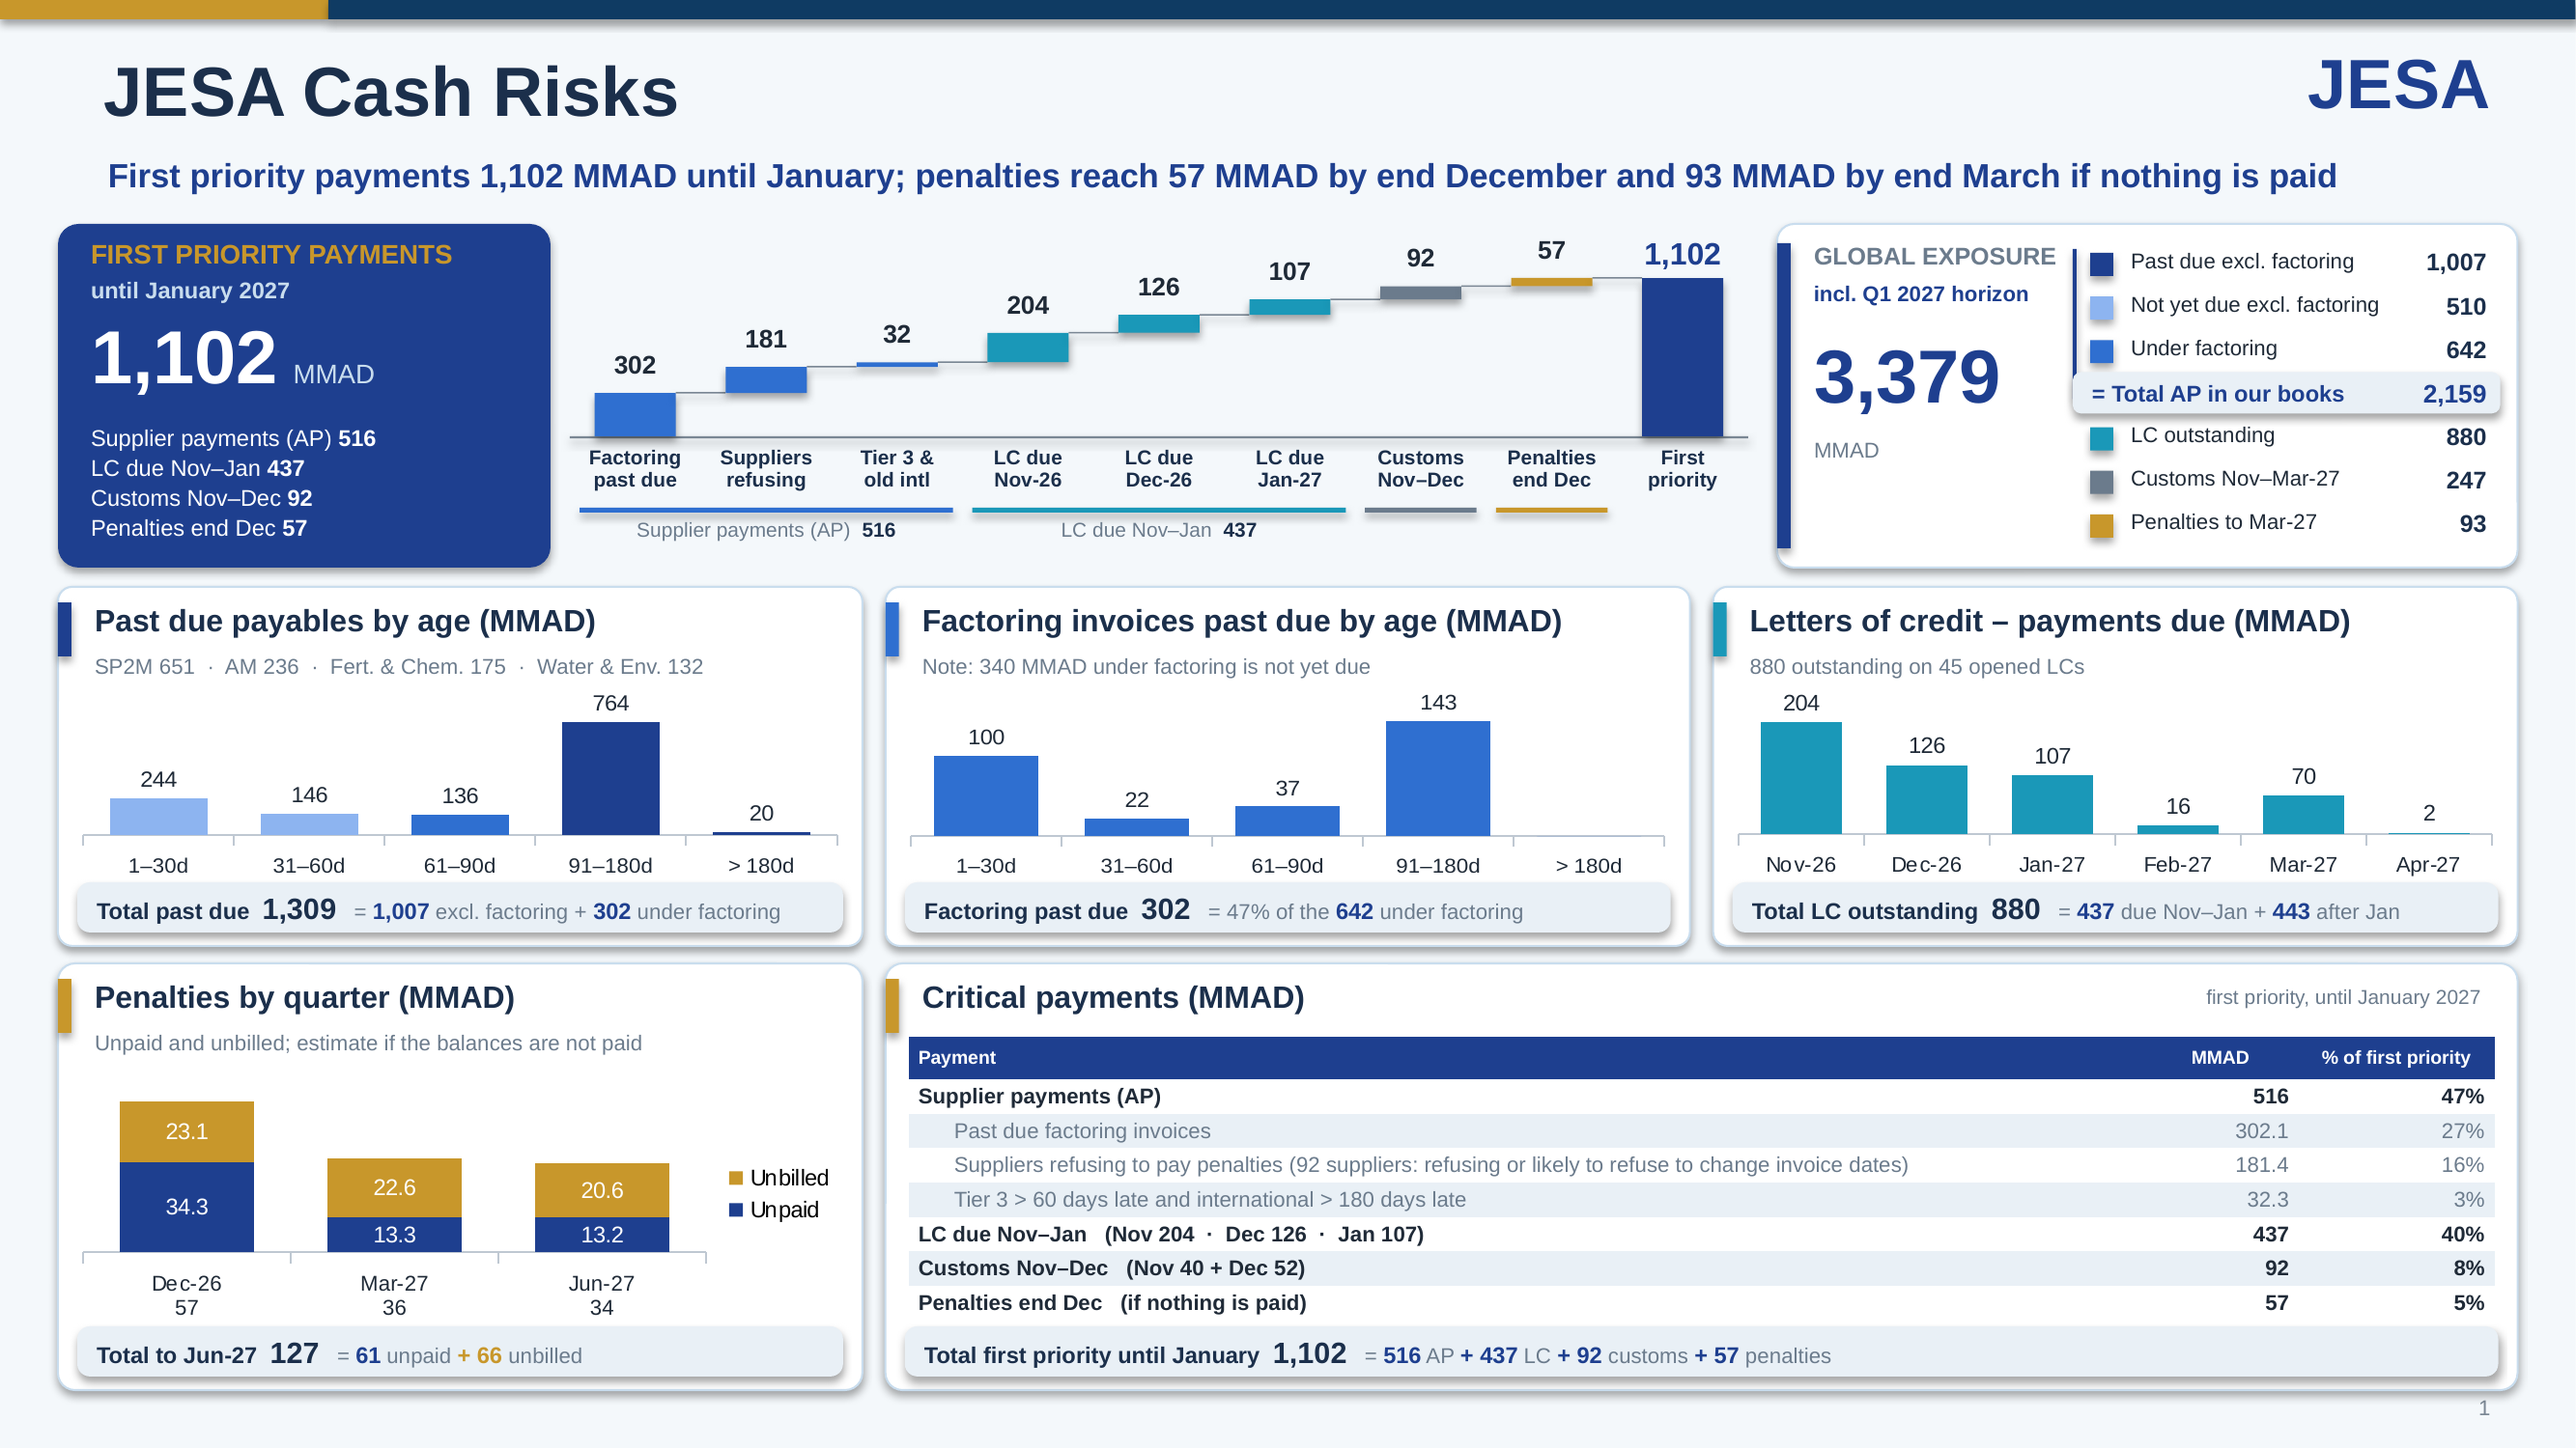
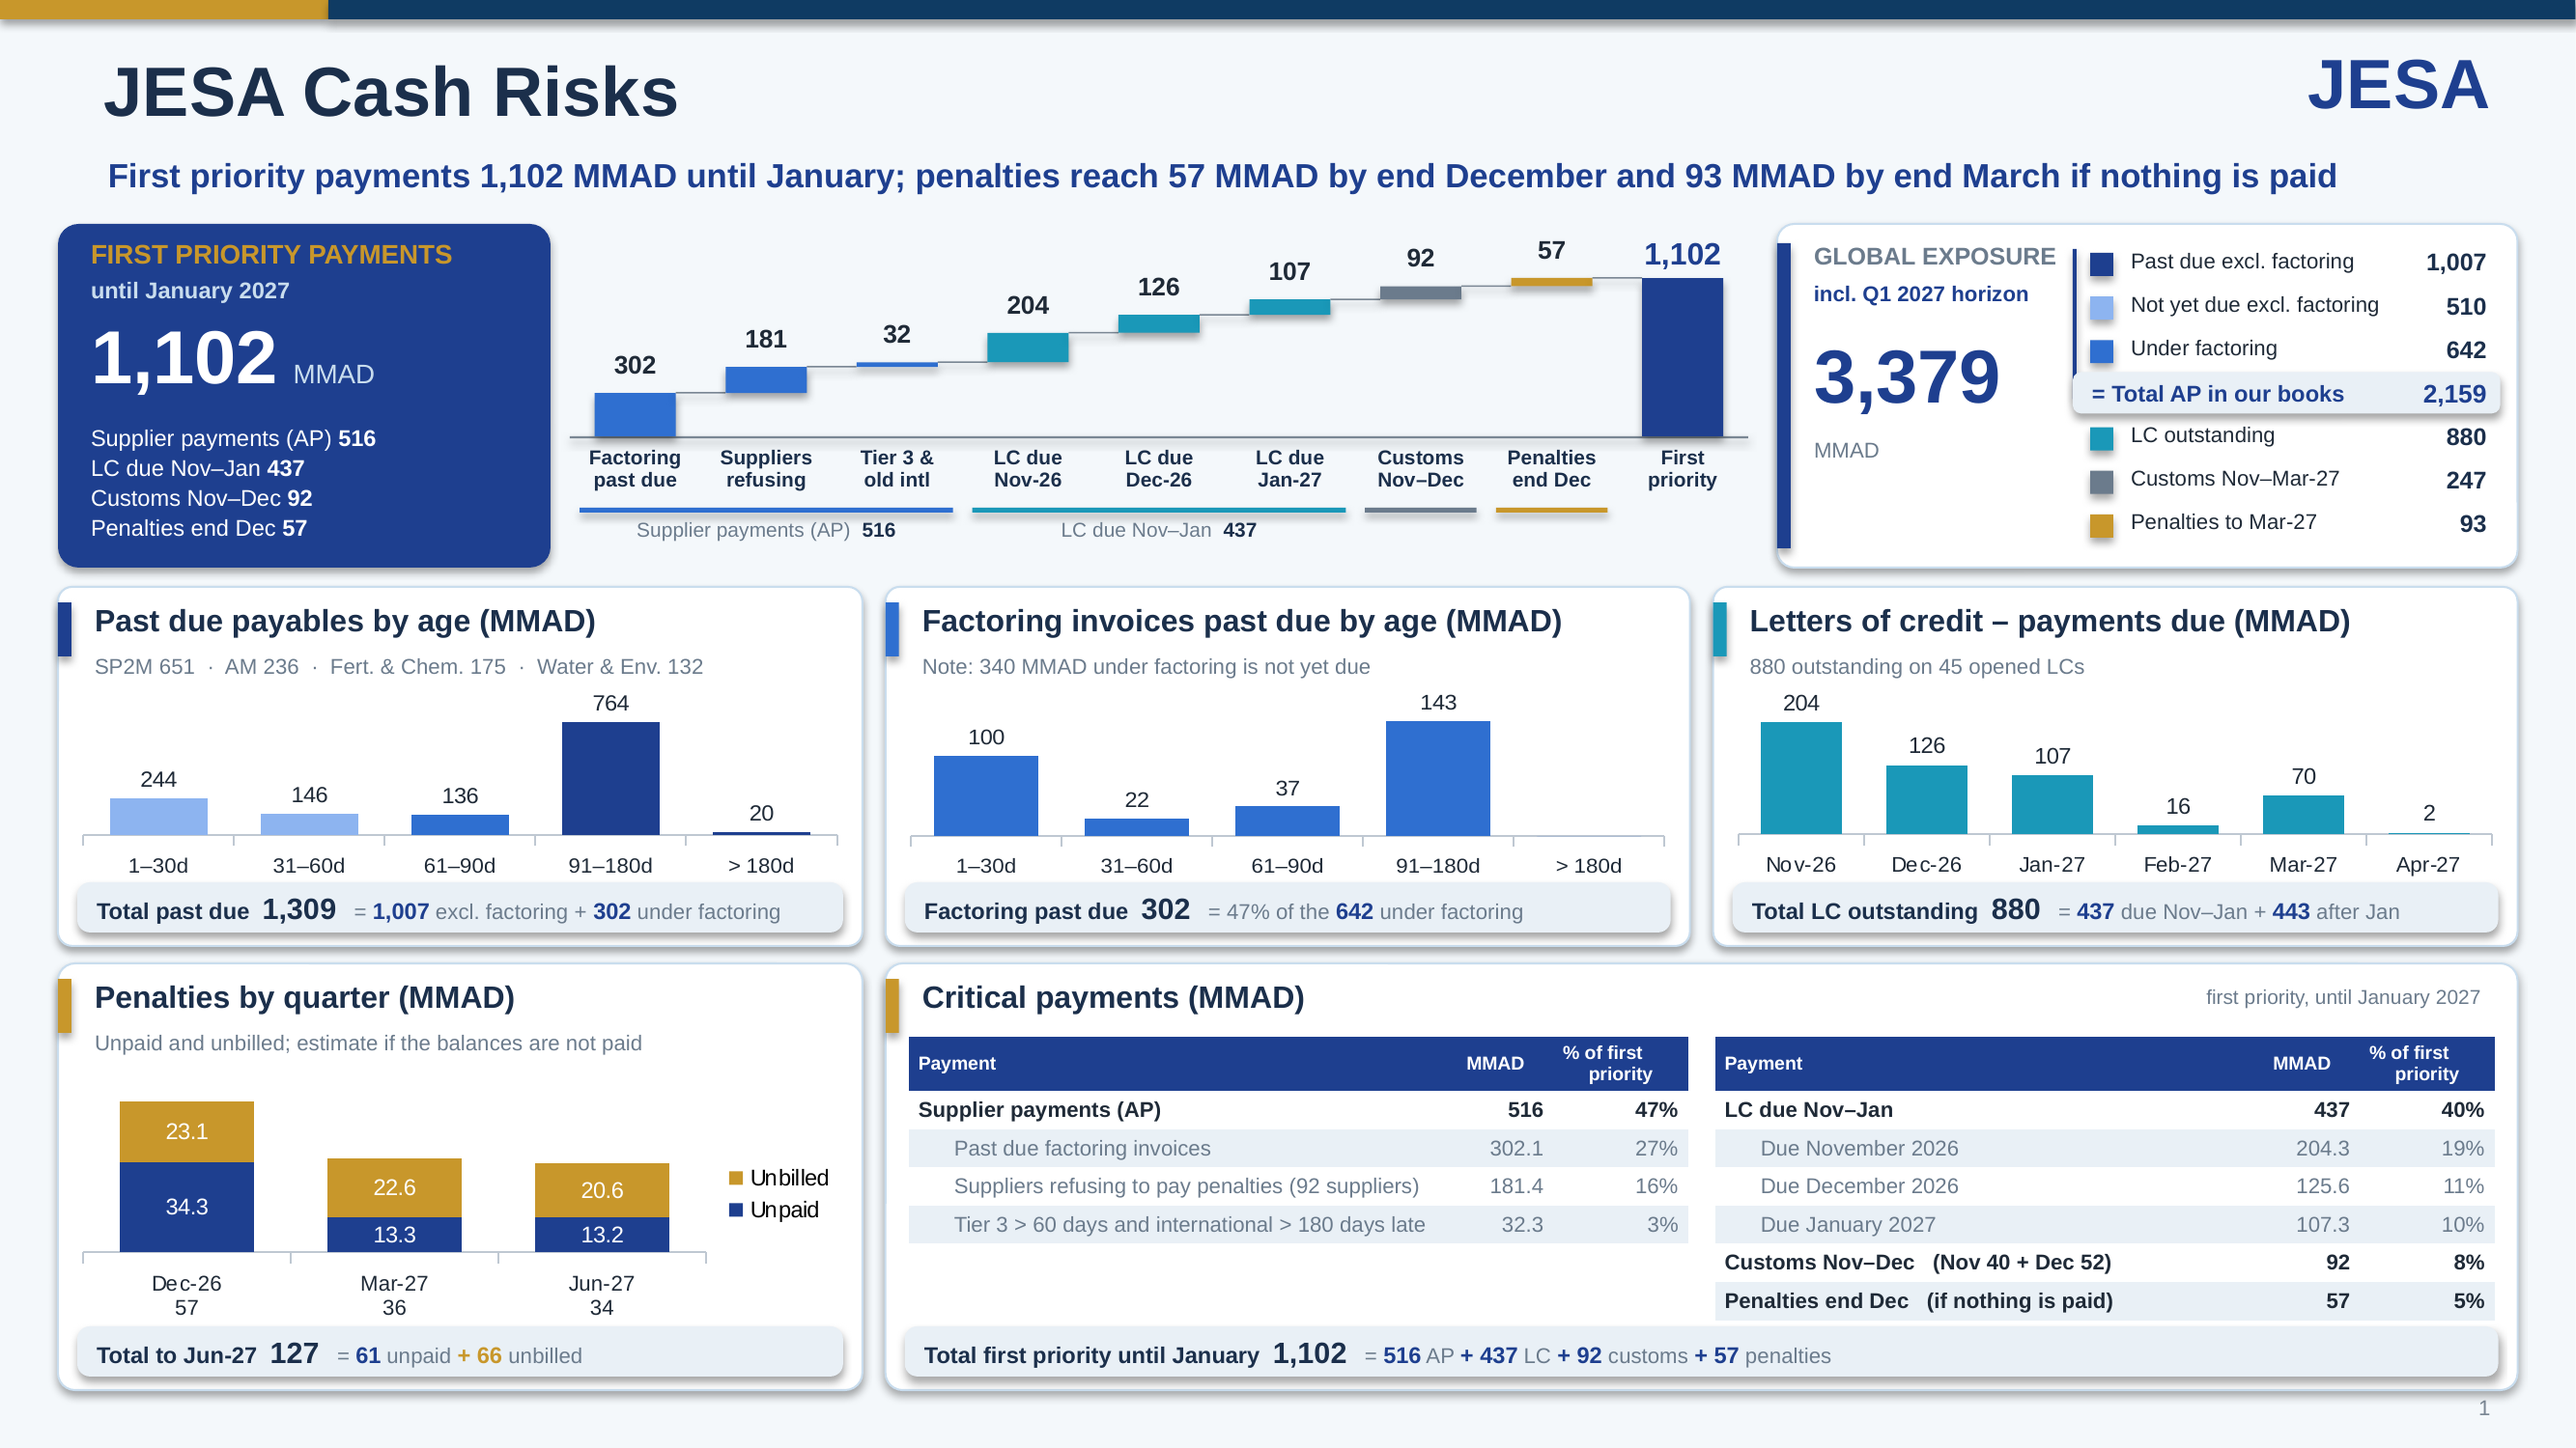
Cash risks slide: LC as one category with monthly detail in the critical payments table
Claude-Session: https://claude.ai/code/session_01GRGYp2p9fdXmxQMcLgyM1e

Changed region(s): [[0.3423, 0.7053, 0.9648, 0.92]]

diff --git a/weekly-ar-cash-deck/build_deck.py b/weekly-ar-cash-deck/build_deck.py
@@ -1641,17 +1641,24 @@ def build(data, meta, out):
         wC = 2 * pw + 0.12; xC = x2
         panel(xC, y2, wC, h2, "Critical payments (MMAD)", None, JGD)
         tb(s, xC + wC - 3.3, y2 + 0.09, 3.15, 0.22, f"first priority, until {until}", size=7.5, color=SLATE, align=PP_ALIGN.RIGHT)
-        subl = {"Supplier payments (AP)": [("Past due factoring invoices", r_fpd)] + ([(f"Suppliers refusing to pay penalties ({ref_n} suppliers: refusing or likely to refuse to change invoice dates)", ref_amt)] if ref_amt > 0.05 else [])
-                                          + ([(("Tier 3 > 60 days late and international > 180 days late" if has_pen else "Critical invoices by aging"), oth_amt)] if oth_amt > 0.05 else [])}
-        crow, cbold, ccol = [], [], {}
-        for n_, t_, c_, bars in groups:
-            lab = n_ + ("   (" + "  ·  ".join(f"{_ml(m)} {f0(v)}" for m, v in lc_im) + ")" if n_.startswith("LC due") else "") + (f"   ({com} {f0(cus_cur)} + {proj_m[0]} {f0(cus_avg)})" if n_.startswith("Customs") and proj_m else "") + ("   (if nothing is paid)" if n_.startswith("Penalties") else "")
-            cbold.append(len(crow)); crow.append([lab, f0(t_), f"{t_/(imm or 1)*100:.0f}%"])
-            for sl, sv in subl.get(n_, []):
-                for j in range(3): ccol[(len(crow), j)] = SLATE
-                crow.append(["      " + sl, f1(sv), f"{sv/(imm or 1)*100:.0f}%"])
-        table(s, xC + 0.12, y2 + 0.38, wC - 0.24, ["Payment", "MMAD", "% of first priority"], crow, col_w=[6.3, 0.8, 1.0], font_size=8, header_size=7, row_h=min(0.21, (h2 - 0.38 - 0.22 - ST - 0.06) / len(crow)), header_h=0.22,
-              header_fill=JB, bold_rows=tuple(cbold), colors=ccol)
+        subl = {"Supplier payments (AP)": [("Past due factoring invoices", r_fpd)] + ([(f"Suppliers refusing to pay penalties ({ref_n} suppliers)", ref_amt)] if ref_amt > 0.05 else [])
+                                          + ([(("Tier 3 > 60 days and international > 180 days late" if has_pen else "Critical invoices by aging"), oth_amt)] if oth_amt > 0.05 else [])}
+        lc_key = next((n_ for n_, *_ in groups if n_.startswith("LC due")), None)
+        if lc_key: subl[lc_key] = [("Due " + dt.date.fromisoformat(str(m)[:7] + "-01").strftime("%B %Y"), v) for m, v in lc_im]   # LC: one category, the months underneath
+        def ctab(gs_, x_, w_):
+            crow, cbold, ccol = [], [], {}
+            for n_, t_, c_, bars in gs_:
+                lab = n_ + (f"   ({com} {f0(cus_cur)} + {proj_m[0]} {f0(cus_avg)})" if n_.startswith("Customs") and proj_m else "") + ("   (if nothing is paid)" if n_.startswith("Penalties") else "")
+                cbold.append(len(crow)); crow.append([lab, f0(t_), f"{t_/(imm or 1)*100:.0f}%"])
+                for sl, sv in subl.get(n_, []):
+                    for j in range(3): ccol[(len(crow), j)] = SLATE
+                    crow.append(["      " + sl, f1(sv), f"{sv/(imm or 1)*100:.0f}%"])
+            table(s, x_, y2 + 0.38, w_, ["Payment", "MMAD", "% of first\npriority"], crow, col_w=[2.75, 0.6, 0.7], font_size=8, header_size=7, row_h=min(0.21, (h2 - 0.38 - 0.28 - ST - 0.06) / max(len(crow), 6)), header_h=0.28,
+                  header_fill=JB, bold_rows=tuple(cbold), colors=ccol)
+        # two tables side by side, largest category first: supplier payments (AP) on the left, then LC by month, customs and penalties
+        tw_ = (wC - 0.24 - 0.14) / 2
+        ctab(groups[:1], xC + 0.12, tw_)
+        if len(groups) > 1: ctab(groups[1:], xC + 0.12 + tw_ + 0.14, tw_)
         total_strip(xC, y2, wC, h2, f"Total first priority until {until.split()[0]}", f0(imm), [("= ", {})] + [x for j, (n_, t_, c_, _) in enumerate(groups) for x in (B(("+ " if j else "") + f0(t_), JB), (" " + (n_.split(" (")[0].replace("Supplier payments", "AP").split(" due")[0].split(" end")[0].split(" " + com)[0]).lower().replace("ap", "AP").replace("lc", "LC") + " ", {}))])
 
         # ============ detail slide: factoring by BU, penalties by payment date, customs, suppliers by attitude

diff --git a/.claude/skills/weekly-ar-deck/SKILL.md b/.claude/skills/weekly-ar-deck/SKILL.md
@@ -229,7 +229,8 @@ The reviewer used to strip the deck by hand before sending; the builder now prod
 - Row 2 panels: penalties by quarter (unpaid in blue, unbilled in gold); **"Critical payments"** = the waterfall as a
   table, largest category first, with the lines under supplier payments (AP): past due factoring invoices, "Suppliers
   refusing to pay penalties" (reviewer's wording for refusing + likely to refuse, merged), tier 3 and old
-  international.
+  international. LC is one category too, with one line per month underneath (November, December, January). The panel
+  holds two tables side by side: supplier payments (AP) on the left; LC, customs and penalties on the right.
 - No "decision needed" band (tried and removed at the reviewer's request).
 
 Slide 2 "detail" = factoring by BU, penalties by payment date, customs paid and projected, unpaid invoices by supplier
